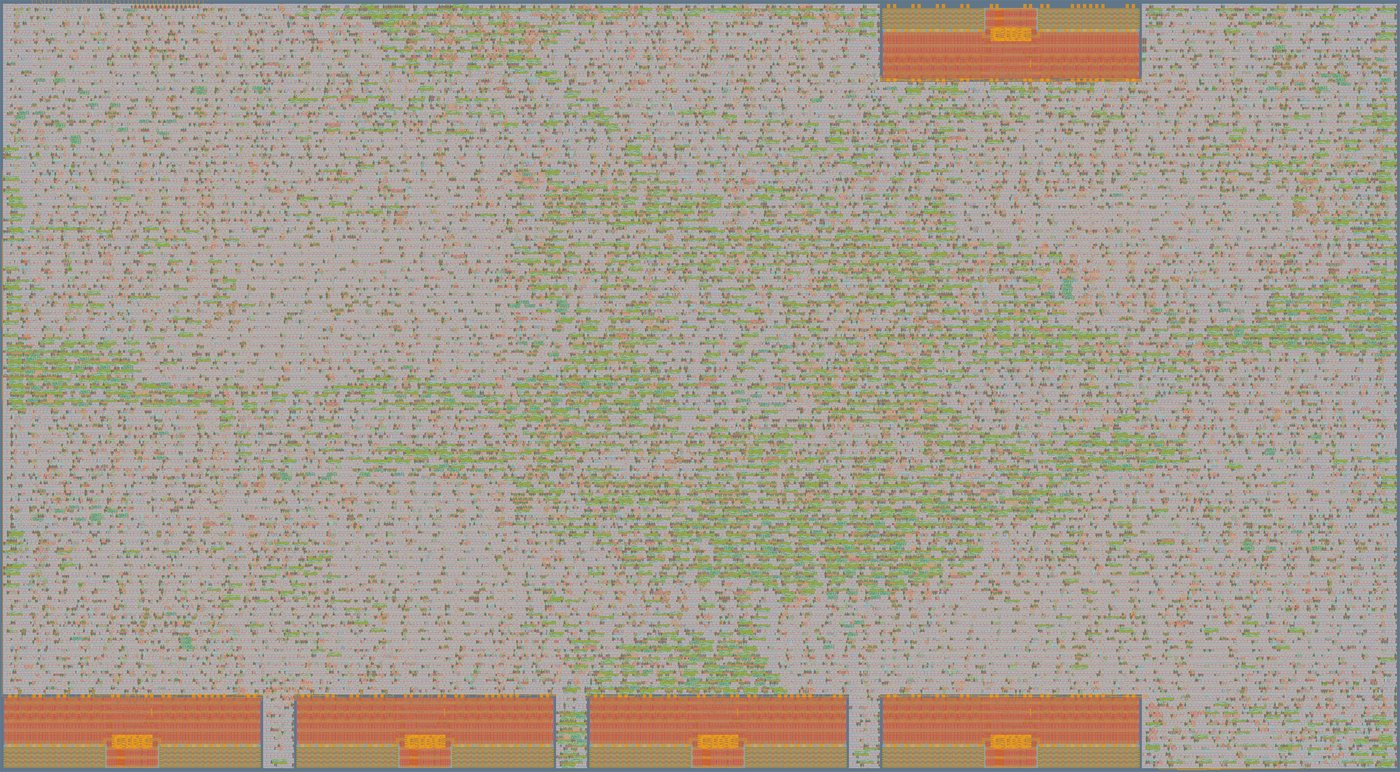
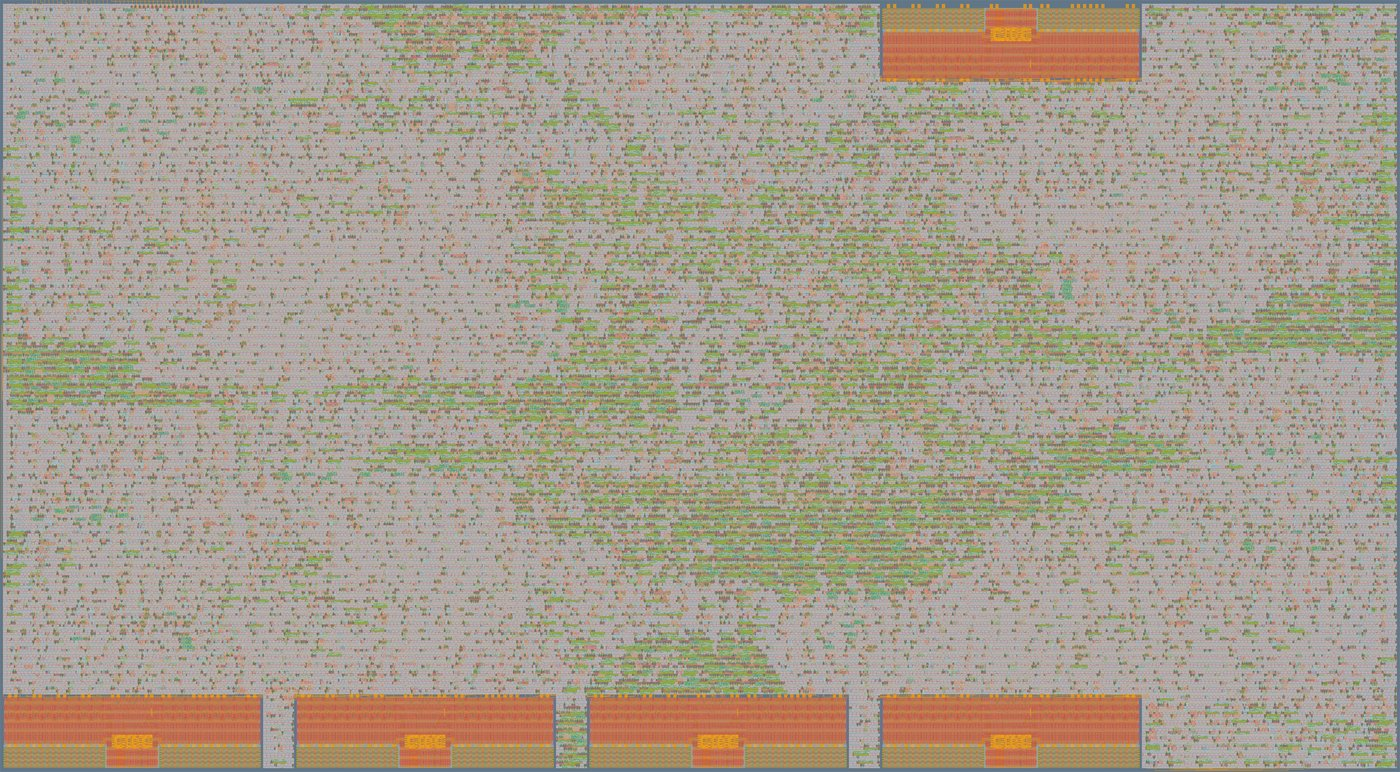
Datasheet layout figures for the current layout (hold-fix target 0.15 ns)
Standard cells 24,785, utilisation 44.9 %, setup 6.39 / 13.50 / 16.84 ns, hold 0.145 / 0.276 / 0.503 ns,
144 antenna diodes, 2,657 max-slew and 131 max-fanout warnings; layout picture from this layout's render.

diff --git a/docs/info.md b/docs/info.md
@@ -387,17 +387,17 @@ From the Tiny Tapeout flow's layout run for this commit's design (IHP SG13 CMOS5
 |---|---|
 | Die | 1289.28 x 710.64 µm |
 | Core area | 902,417 µm² |
-| Standard cells | 23,658 (310,792 µm²) |
+| Standard cells | 24,785 (329,326 µm²) |
 | SRAM blocks | 5 x RM_IHPSG13_1P_64x16_c2 (76,202 µm²): four program memories, engine A's TX FIFO |
-| Utilisation | 42.9 % (standard cells 37.6 %) |
+| Utilisation | 44.9 % (standard cells 39.9 %) |
 | Flip-flops and other sequential cells | 1,834 |
-| Setup, worst slack | 6.55 ns slow corner (1.08 V, 125 °C); 13.63 ns typical; 16.62 ns fast |
-| Hold, worst slack | 0.029 ns fast corner (1.32 V, -40 °C); 0.122 ns typical; 0.251 ns slow |
+| Setup, worst slack | 6.39 ns slow corner (1.08 V, 125 °C); 13.50 ns typical; 16.84 ns fast |
+| Hold, worst slack | 0.145 ns fast corner (1.32 V, -40 °C); 0.276 ns typical; 0.503 ns slow (hold fixing aimed at 0.15 ns) |
 | Setup and hold violations | 0 at all three corners |
 | DRC | 0 (KLayout and detailed routing) |
 | LVS | 0 differences |
-| Antenna | 0 violating nets (157 diodes inserted) |
-| Warnings | 2,751 maximum-slew and 129 maximum-fanout, at the slow corner |
+| Antenna | 0 violating nets (144 diodes inserted) |
+| Warnings | 2,657 maximum-slew and 131 maximum-fanout, at the slow corner |
 | Power, flow estimate | 5.8 mW |
 
 ![Layout of the four-engine chip, rendered by the Tiny Tapeout flow: four program memories along the bottom, engine A's TX FIFO at the top right](layout.jpg)
